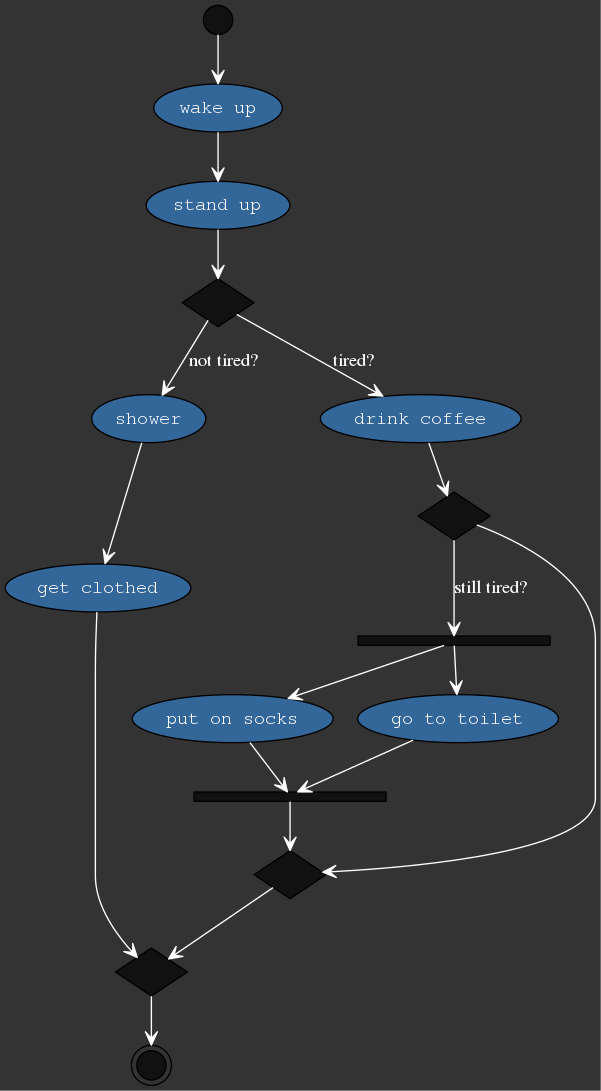
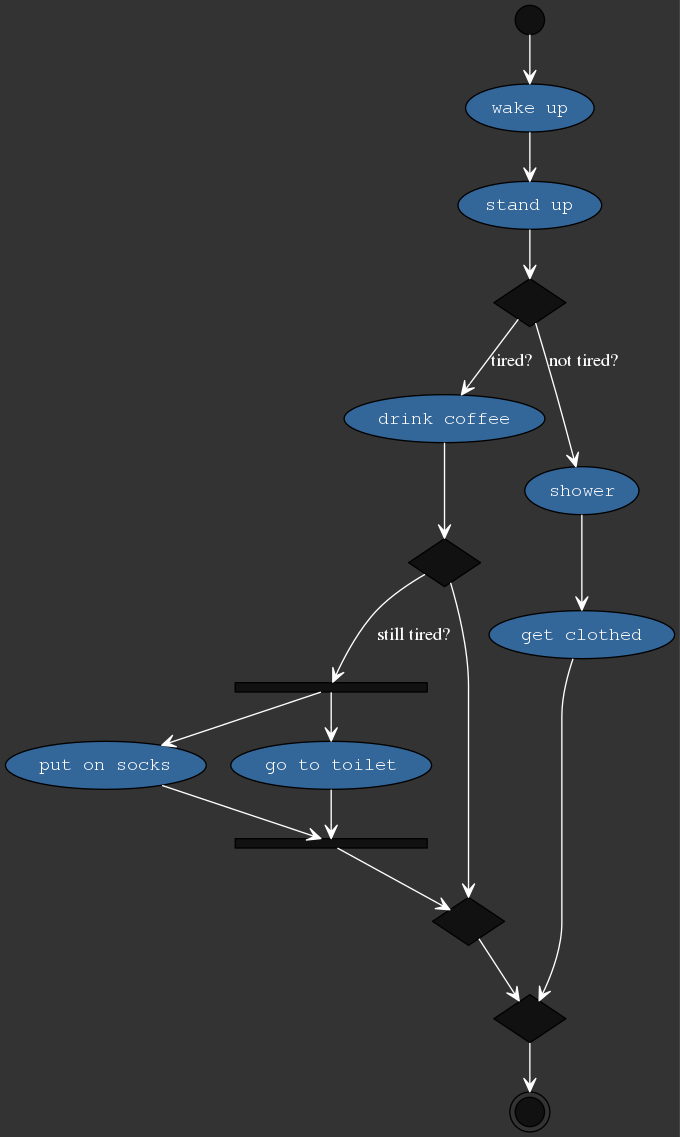
added ability to create LR diagrams

Changed region(s): [[0.0, 0.0, 1.0, 1.0], [0.1498, 0.0, 0.4792, 0.4363]]

diff --git a/aml/instructions/parallelInstruction.go b/aml/instructions/parallelInstruction.go
@@ -4,22 +4,34 @@ import (
 	"math/rand"
 	"regexp"
 	"strconv"
+
+	"github.com/windler/awesm/aml/constants"
 )
 
 //ParallelInstructionFactory create a parallel-node
-type ParallelInstructionFactory struct{}
+type ParallelInstructionFactory struct {
+	Orientation string
+}
 
 //NewForkNode create a fork node which is added a the beginnen of the path
 func (f ParallelInstructionFactory) NewForkNode(name string) *AMLInstruction {
 	randName := strconv.FormatInt(int64(rand.Int()), 10)
+
+	height := "0.1"
+	width := "2"
+	if f.Orientation == constants.LeftRight {
+		width = "0.1"
+		height = "2"
+	}
+
 	return &AMLInstruction{
 		Name: "cond_" + randName,
 		NodeOptions: map[string]string{
 			"shape":     "rectangle",
 			"label":     "",
 			"fillcolor": "#111111",
-			"height":    "0.1",
-			"width":     "2",
+			"height":    height,
+			"width":     width,
 		},
 		EdgeOptions:  make(map[string]string),
 		Predecessors: []*AMLInstruction{},
@@ -29,14 +41,22 @@ func (f ParallelInstructionFactory) NewForkNode(name string) *AMLInstruction {
 //NewJoinNode create a join node which is added a the end of the path
 func (f ParallelInstructionFactory) NewJoinNode(name string, forkNode *AMLInstruction) *AMLInstruction {
 	randName := strconv.FormatInt(int64(rand.Int()), 10)
+
+	height := "0.1"
+	width := "2"
+	if f.Orientation == constants.LeftRight {
+		width = "0.1"
+		height = "2"
+	}
+
 	return &AMLInstruction{
 		Name: "join_" + randName,
 		NodeOptions: map[string]string{
 			"shape":     "rectangle",
 			"label":     "",
 			"fillcolor": "#111111",
-			"height":    "0.1",
-			"width":     "2",
+			"height":    height,
+			"width":     width,
 		},
 		EdgeOptions:  make(map[string]string),
 		Predecessors: []*AMLInstruction{},

diff --git a/awesm.go b/awesm.go
@@ -7,15 +7,21 @@ import (
 	"github.com/windler/dotgraph/renderer"
 
 	"github.com/windler/awesm/aml"
+	"github.com/windler/awesm/aml/constants"
 	"github.com/windler/awesm/aml/instructions"
 )
 
 func main() {
 	argsWithoutProg := os.Args[1:]
 
-	if len(argsWithoutProg) != 1 {
+	if len(argsWithoutProg) < 1 {
 		fmt.Println("no file provided.")
 		return
+	}
+
+	orientation := constants.TopDowm
+	if len(argsWithoutProg) > 1 {
+		orientation = constants.LeftRight
 	}
 
 	amlParser := aml.NewFileParser(argsWithoutProg[0])
@@ -24,7 +30,9 @@ func main() {
 	amlParser.AddInstructionFactory(instructions.ActivityInstructionFactory{})
 
 	amlParser.AddForkJoinFactory(instructions.IfInstructionFactory{})
-	amlParser.AddForkJoinFactory(instructions.ParallelInstructionFactory{})
+	amlParser.AddForkJoinFactory(instructions.ParallelInstructionFactory{
+		Orientation: orientation,
+	})
 
 	aml, err := amlParser.Parse()
 	if err != nil {
@@ -37,5 +45,7 @@ func main() {
 		OutputFile: argsWithoutProg[0] + ".png",
 		Prefix:     "",
 	}
-	r.Render(aml.CreateDotGraph().String())
+
+	graph := aml.CreateDotGraph(orientation)
+	r.Render(graph.String())
 }

diff --git a/aml/amlFile.go b/aml/amlFile.go
@@ -12,7 +12,7 @@ type File struct {
 }
 
 //CreateDotGraph creates a graph.dograph based on the *.aml file
-func (af File) CreateDotGraph() *graph.DotGraph {
+func (af File) CreateDotGraph(orientation string) *graph.DotGraph {
 	g := graph.New(af.GraphType)
 	g.SetEdgeGraphOptions(graph.DotGraphOptions{
 		"arrowhead": "open",
@@ -31,6 +31,7 @@ func (af File) CreateDotGraph() *graph.DotGraph {
 
 	g.SetGraphOptions(graph.DotGraphOptions{
 		"bgcolor": "#333333",
+		"rankdir": orientation,
 	})
 
 	for _, instruction := range af.Instructions {

diff --git a/aml/amlParser_test.go b/aml/amlParser_test.go
@@ -11,7 +11,7 @@ import (
 
 func TestNoFactories(t *testing.T) {
 	file := createTestFile(`
-diagram:
+activity:
   - start`)
 
 	parser := NewFileParser(file)
@@ -24,7 +24,7 @@ diagram:
 
 func TestFactoryPatternDoesNotMatch(t *testing.T) {
 	file := createTestFile(`
-diagram:
+activity:
   - start`)
 
 	factoryMock := &mocks.InstructionFactory{}
@@ -42,7 +42,7 @@ diagram:
 
 func TestForkNode(t *testing.T) {
 	file := createTestFile(`
-diagram:
+activity:
   - start
   - fork:
       forkPath1:

diff --git a/aml/amlFile_test.go b/aml/amlFile_test.go
@@ -4,6 +4,8 @@ import (
 	"strings"
 	"testing"
 
+	"github.com/windler/awesm/aml/constants"
+
 	"github.com/stretchr/testify/assert"
 
 	"github.com/windler/awesm/aml/instructions"
@@ -33,7 +35,7 @@ func TestCreateDotGraph(t *testing.T) {
 		},
 	}
 
-	g := aml.CreateDotGraph()
+	g := aml.CreateDotGraph(constants.TopDowm)
 
 	assert.True(t, strings.Contains(g.String(), `"node1"->"node2"[a="b"]`))
 	assert.True(t, strings.Contains(g.String(), `"node2"[c="d"]`))

diff --git a/aml/amlParser.go b/aml/amlParser.go
@@ -62,7 +62,7 @@ func (p *FileParser) Parse() (File, error) {
 	var body map[string]interface{}
 	yaml.Unmarshal(data, &body)
 
-	p.parseDiagram(&aml, body["diagram"])
+	p.parseDiagram(&aml, body["activity"])
 
 	return aml, nil
 }

diff --git a/aml/constants/orientation.go b/aml/constants/orientation.go
@@ -1,0 +1,8 @@
+package constants
+
+const (
+	//TopDowm TopDown
+	TopDowm = "TD"
+	//LeftRight LeftRight
+	LeftRight = "LR"
+)

diff --git a/README.md b/README.md
@@ -1,11 +1,73 @@
 [![Go Report Card](https://goreportcard.com/badge/github.com/windler/AwesM)](https://goreportcard.com/report/github.com/windler/AwesM) [![CircleCI](https://circleci.com/gh/windler/AwesM.svg?style=svg)](https://circleci.com/gh/windler/AwesM) [![codebeat badge](https://codebeat.co/badges/35d3d025-5d2c-4bc7-919f-3f1b9ab1fb20)](https://codebeat.co/projects/github-com-windler-awesm-master)
 # AwesM - Awesome Modeling
-`AwesM` is a tool that simplifies the generation of graphviz diagrams using the `awesome modeling language`. This project is still under development. Currently, there is only an option to generate activity diagrams. There will be no installation instructions until first major release. Stay tuned!
+`AwesM` is a tool that simplifies the generation of graphviz diagrams using the `awesome modeling language`. Currently, there is only an option to generate activity diagrams.
 
-## Examples
+# Installation 
+```bash
+go get github.com/windler/AwesM
+```
+
+Make sure you have [graphviz](https://www.graphviz.org/) installed.
+
+# Usage
+After creating a yaml file describing your diagram, you just call
+```bash
+awesm path/file.yaml
+```
+
+This will create a graph in top/down presentation. You can change to left/right by calling 
+
+```bash
+awesm path/file.yaml LR
+```
+
+# Activity diagram
+Every activity diagram starts with the keyword `activity`. The start and end of the diagram are represented by the keywords `start` and `end`. The following keywords are possible:
+
+| Keyword       | Description                                        |
+|--|--|
+| if | Starts a condition. Multiple paths are allowed. |
+| ifopt | Starts a condition with only one subpath. A scecond path is directly connect with the join |
+| fork | Creates parallelizm. Multiple paths are allowed | 
+
+Please read the following examples to fully understand the yaml structure.
+
+## Activity diagram examples
+
+### pizza order (left/right)
 `yaml-File`:
 ```yaml
-diagram:
+activity:
+    - start
+    - order received
+    - ifopt: 
+        "comment from customer?":
+            - consider comment
+    - choose dough
+    - choose sauce
+    - choose toppings
+    - fork:
+        path1:
+            - bake pizza
+        path2:
+            - organize driver
+        path3:
+            - calculate price
+    - deliver
+    - end
+``` 
+
+```bash
+awesm examples/pizza.yaml LR
+```
+
+Output:  
+![testoutput](examples/pizza.yaml.png)
+
+### waking up (top/down)
+`yaml-File`:
+```yaml
+activity:
     - start
     - wake up
     - stand up
